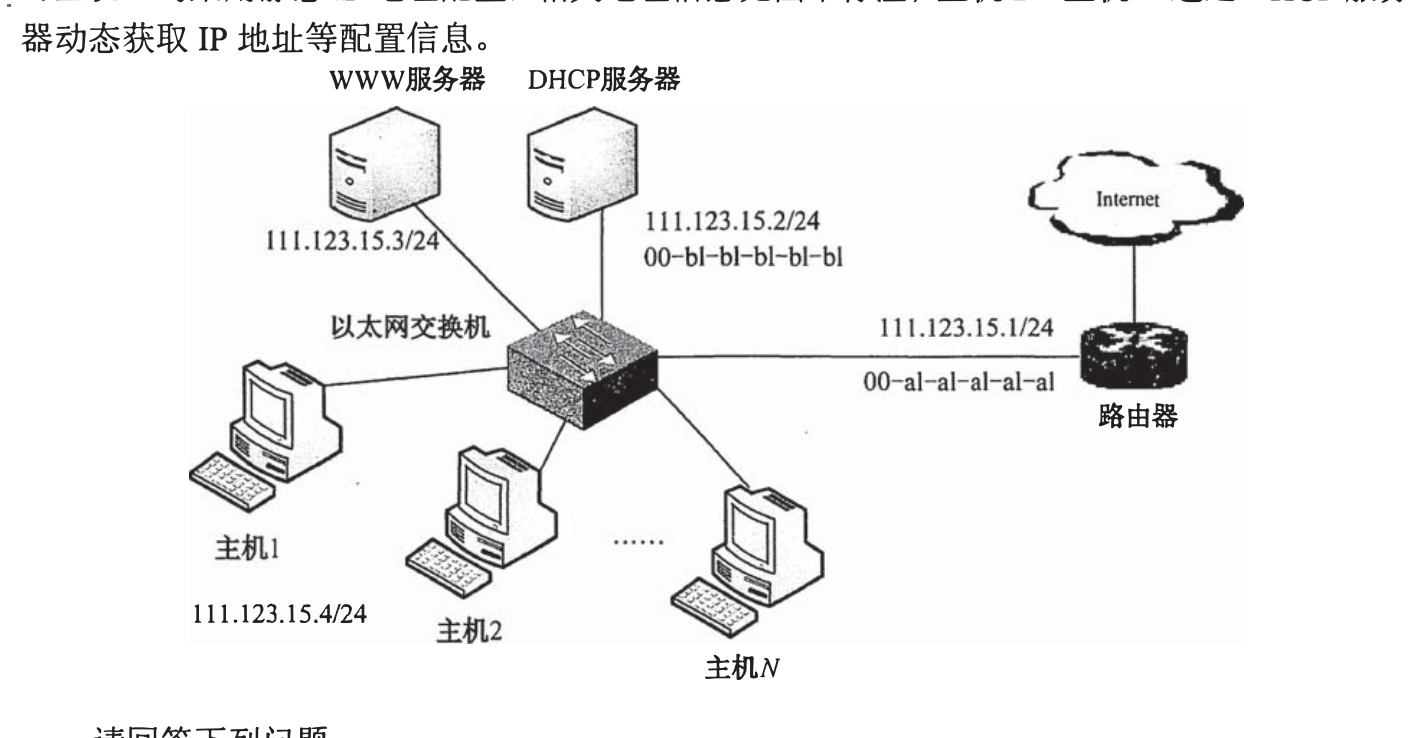
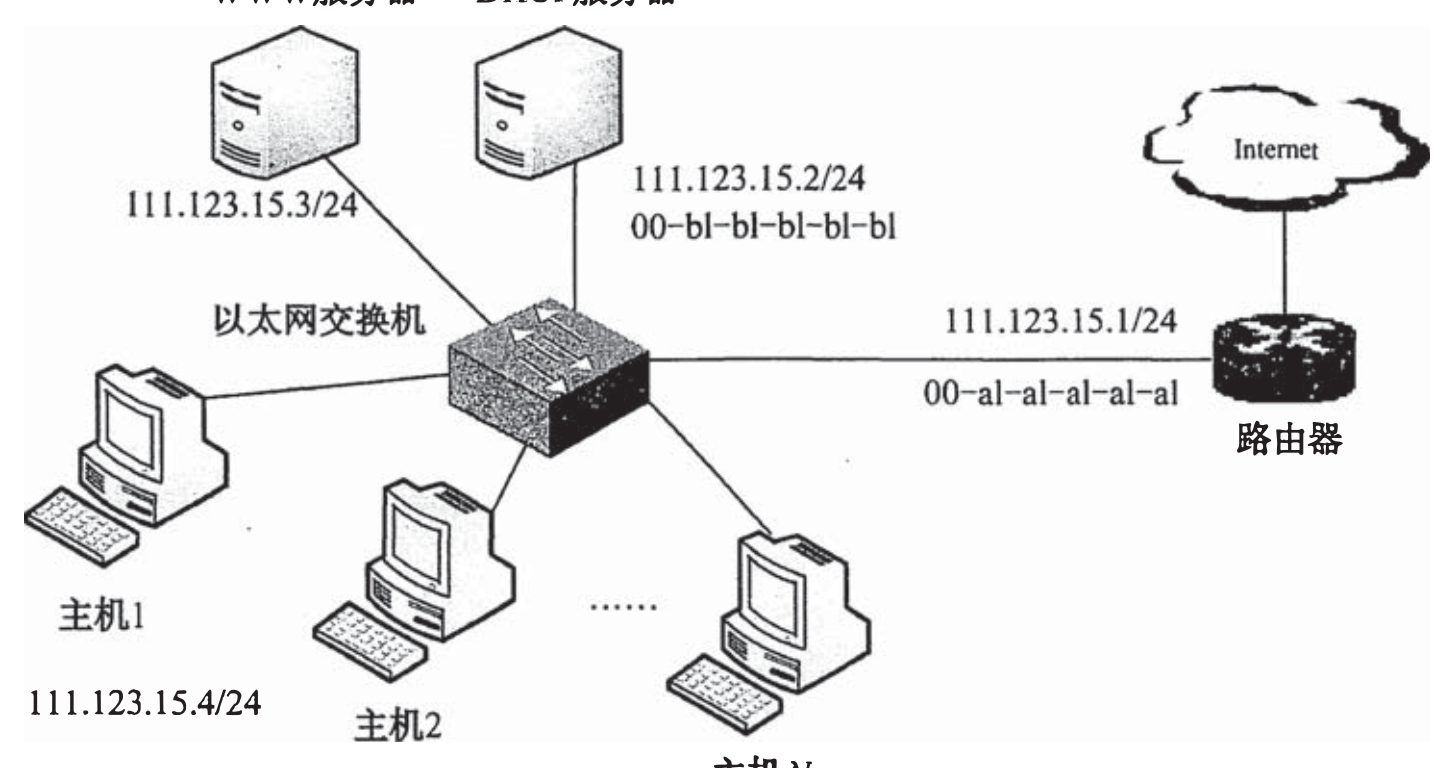
408Lab: 配图按 PDF 内嵌图片 bbox 重裁（4x，完整不切边）；灯箱不再锁页面滚动

diff --git a/src/components/question-body.tsx b/src/components/question-body.tsx
@@ -63,11 +63,8 @@ export function QuestionBody({
       if (e.key === 'Escape') setZoomed(false)
     }
     window.addEventListener('keydown', onKey)
-    const prev = document.body.style.overflow
-    document.body.style.overflow = 'hidden'
     return () => {
       window.removeEventListener('keydown', onKey)
-      document.body.style.overflow = prev
     }
   }, [zoomed])
   const answered = mode === 'review' ? true : mode === 'browse' ? false : selected !== null || externalSelected != null
